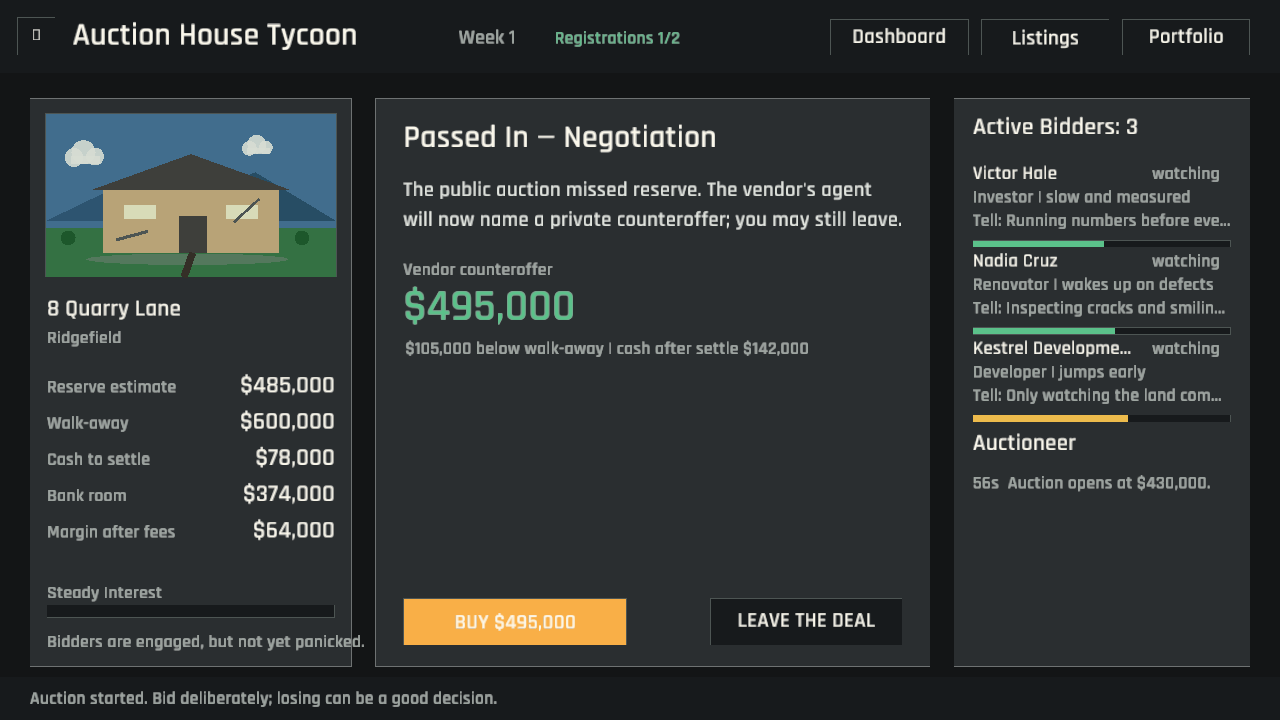
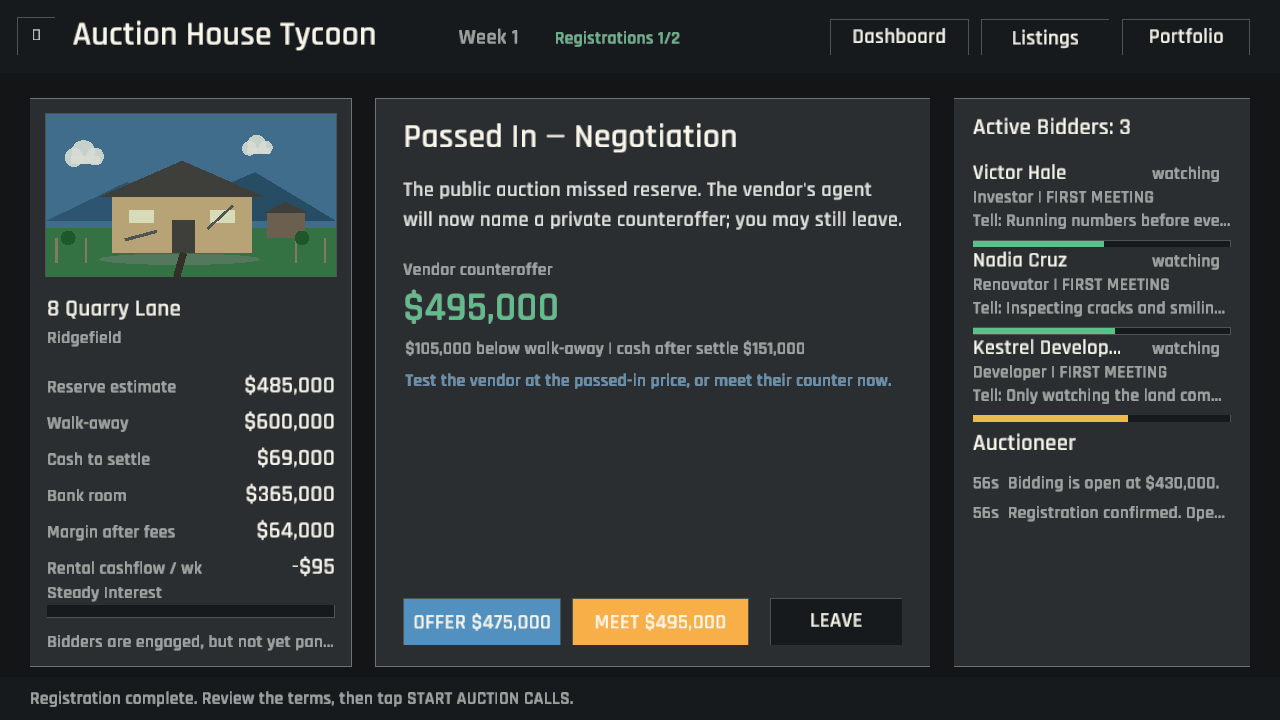
The vendor can now be tested after the room goes quiet (passed-in negotiation)
A pass-in previously collapsed into a binary take-the-counter-or-leave prompt. The buyer may now offer the public-room price once, with deterministic seller flexibility based on demand and defect risk; a rejection keeps the vendor counter available. The negotiation has finance-aware touch controls, save-compatible state, two outcome tests, and a dedicated verification capture. Auction debrief drawing moved into its own module to preserve the source-size standard.

diff --git a/src/screens/auction.rs b/src/screens/auction.rs
@@ -1,11 +1,15 @@
-use crate::app::{App, PurchaseDebrief};
+use crate::app::App;
 use crate::model::{Auction, AuctionStatus, AuctionTemperature, BidderActor};
+use crate::screens::auction_debrief::draw_purchase_debrief;
 use crate::screens::auction_lobby::{draw_auction_day_lobby, AuctionLobbyAction};
 use crate::screens::auction_widgets::{
     bid_verdict, draw_heat_bar, guidance_color, money_color, mood_color,
 };
 use crate::screens::Screen;
-use crate::sim::auction_events::{accept_post_auction_offer, post_auction_offer};
+use crate::sim::auction_events::{
+    accept_post_auction_offer, post_auction_offer, test_vendor_at_passed_in_price,
+    PostAuctionTestResult,
+};
 use crate::sim::auction_sim::{
     begin_auction_calls, hold_player_position, place_player_bid, place_player_jump_bid,
     quick_resolve_auction, stop_player_bidding, AUCTION_DURATION_SECONDS,
@@ -27,6 +31,7 @@ enum AuctionUiAction {
     Settle,
     ReturnToListings,
     AcceptPostAuction,
+    TestPostAuction,
 }
 
 impl App {
@@ -175,6 +180,25 @@ impl App {
                     }
                 }
             }
+            Some(AuctionUiAction::TestPostAuction) => {
+                if let Some(auction) = self.current_auction.as_mut() {
+                    match test_vendor_at_passed_in_price(auction) {
+                        Some(PostAuctionTestResult::Accepted(price)) => {
+                            self.status = format!(
+                                "Vendor accepted your {} offer. Review, then tap SETTLE PURCHASE.",
+                                format_money(price)
+                            );
+                        }
+                        Some(PostAuctionTestResult::Rejected(counter)) => {
+                            self.status = format!(
+                                "Vendor rejected the test offer and holds at {}.",
+                                format_money(counter)
+                            );
+                        }
+                        None => {}
+                    }
+                }
+            }
             None => {}
         }
     }
@@ -189,7 +213,7 @@ impl App {
         match status {
             AuctionStatus::SoldToPlayer => {
                 let debrief = self.purchase_debrief_for_auction(auction);
-                self.draw_purchase_debrief(&debrief, rect);
+                draw_purchase_debrief(&debrief, rect);
                 if button(
                     Rect::new(rect.x + 36.0, rect.y + rect.h - 64.0, rect.w - 72.0, 44.0),
                     "Settle Purchase",
@@ -257,6 +281,8 @@ impl App {
                 );
                 let offer = post_auction_offer(auction).unwrap_or(auction.reserve_price);
                 let offer_finance = finance_snapshot(&self.player, self.market(), offer);
+                let test_finance =
+                    finance_snapshot(&self.player, self.market(), auction.current_bid);
                 label(
                     "Vendor counteroffer",
                     rect.x + 26.0,
@@ -291,9 +317,37 @@ impl App {
                     16,
                     TEXT_DIM,
                 );
+                label_fit(
+                    if auction.post_auction_tested {
+                        "Your lower offer was rejected. The vendor counter still stands."
+                    } else {
+                        "Test the vendor at the passed-in price, or meet their counter now."
+                    },
+                    rect.x + 28.0,
+                    rect.y + 270.0,
+                    rect.w - 56.0,
+                    15,
+                    if auction.post_auction_tested {
+                        WARNING
+                    } else {
+                        crate::ui::BLUE
+                    },
+                );
                 if button(
-                    Rect::new(rect.x + 26.0, rect.y + rect.h - 64.0, 210.0, 44.0),
-                    &format!("BUY {}", format_money(offer)),
+                    Rect::new(rect.x + 26.0, rect.y + rect.h - 64.0, 148.0, 44.0),
+                    &if auction.post_auction_tested {
+                        "OFFER REJECTED".to_string()
+                    } else {
+                        format!("OFFER {}", format_money(auction.current_bid))
+                    },
+                    !auction.post_auction_tested && test_finance.can_buy,
+                    ButtonTone::Secondary,
+                ) {
+                    return Some(AuctionUiAction::TestPostAuction);
+                }
+                if button(
+                    Rect::new(rect.x + 184.0, rect.y + rect.h - 64.0, 166.0, 44.0),
+                    &format!("MEET {}", format_money(offer)),
                     offer_finance.can_buy,
                     if offer <= auction.player_walkaway_price {
                         ButtonTone::Primary
@@ -304,8 +358,8 @@ impl App {
                     return Some(AuctionUiAction::AcceptPostAuction);
                 }
                 if button(
-                    Rect::new(rect.x + rect.w - 206.0, rect.y + rect.h - 64.0, 180.0, 44.0),
-                    "LEAVE THE DEAL",
+                    Rect::new(rect.x + rect.w - 150.0, rect.y + rect.h - 64.0, 124.0, 44.0),
+                    "LEAVE",
                     true,
                     ButtonTone::Ghost,
                 ) {
@@ -314,55 +368,6 @@ impl App {
             }
         }
         None
-    }
-
-    fn draw_purchase_debrief(&self, debrief: &PurchaseDebrief, rect: Rect) {
-        label("You Won", rect.x + 26.0, rect.y + 44.0, 32, TEXT_BRIGHT);
-        label(&debrief.address, rect.x + 30.0, rect.y + 70.0, 17, TEXT_DIM);
-        label(
-            &format_money(debrief.purchase_price),
-            rect.x + 26.0,
-            rect.y + 118.0,
-            44,
-            ACCENT,
-        );
-        let values = [
-            ("Estimated resale", debrief.estimated_resale),
-            ("Cash to settle", debrief.cash_to_settle),
-            ("Cash after settle", debrief.cash_after_settle),
-            ("Fees", debrief.fees),
-            ("Repair allowance", debrief.renovation_allowance),
-            ("Projected profit", debrief.projected_profit),
-        ];
-        for (index, (title, value)) in values.iter().enumerate() {
-            draw_value(
-                title,
-                &format_money(*value),
-                rect.x + 28.0,
-                rect.y + 160.0 + index as f32 * 27.0,
-                rect.w - 56.0,
-            );
-        }
-        if debrief.walkaway_delta > 0 {
-            label(
-                &format!("Over walk-away by {}", format_money(debrief.walkaway_delta)),
-                rect.x + 28.0,
-                rect.y + 330.0,
-                15,
-                NEGATIVE,
-            );
-        }
-        let lesson = Rect::new(rect.x + 24.0, rect.y + 346.0, rect.w - 48.0, 86.0);
-        dark_panel(lesson);
-        label("Lesson", lesson.x + 14.0, lesson.y + 28.0, 20, TEXT_BRIGHT);
-        draw_wrapped_text(
-            &debrief.lesson,
-            lesson.x + 14.0,
-            lesson.y + 56.0,
-            lesson.w - 28.0,
-            16,
-            TEXT,
-        );
     }
 }
 

diff --git a/src/sim/auction_events.rs b/src/sim/auction_events.rs
@@ -71,3 +71,53 @@ pub fn accept_post_auction_offer(auction: &mut Auction) -> bool {
     );
     true
 }
+
+#[derive(Clone, Copy, Debug, PartialEq, Eq)]
+pub enum PostAuctionTestResult {
+    Accepted(i64),
+    Rejected(i64),
+}
+
+pub fn test_vendor_at_passed_in_price(auction: &mut Auction) -> Option<PostAuctionTestResult> {
+    if auction.status != Some(AuctionStatus::PassedIn) || auction.post_auction_tested {
+        return None;
+    }
+    auction.post_auction_tested = true;
+    let offer = auction.current_bid;
+    if offer >= vendor_acceptance_floor(auction) {
+        auction.last_bidder = Some(BidderActor::Player);
+        auction.status = Some(AuctionStatus::SoldToPlayer);
+        auction.sold_post_auction = true;
+        push_log(
+            auction,
+            format!(
+                "Vendor accepts your passed-in offer of {}.",
+                crate::ui::format_money(offer)
+            ),
+        );
+        Some(PostAuctionTestResult::Accepted(offer))
+    } else {
+        let counter = post_auction_offer(auction).unwrap_or(auction.reserve_price);
+        push_log(
+            auction,
+            format!(
+                "Vendor rejects {} and holds at {}.",
+                crate::ui::format_money(offer),
+                crate::ui::format_money(counter)
+            ),
+        );
+        Some(PostAuctionTestResult::Rejected(counter))
+    }
+}
+
+fn vendor_acceptance_floor(auction: &Auction) -> i64 {
+    let concession =
+        if auction.property.hidden_defect_risk >= 0.55 || auction.property.buyer_demand <= 50 {
+            30_000
+        } else if auction.property.buyer_demand <= 70 {
+            20_000
+        } else {
+            10_000
+        };
+    auction.reserve_price - concession
+}

diff --git a/src/screens/auction_debrief.rs b/src/screens/auction_debrief.rs
@@ -1,0 +1,52 @@
+use crate::app::PurchaseDebrief;
+use crate::ui::*;
+use macroquad::prelude::*;
+
+pub(super) fn draw_purchase_debrief(debrief: &PurchaseDebrief, rect: Rect) {
+    label("You Won", rect.x + 26.0, rect.y + 44.0, 32, TEXT_BRIGHT);
+    label(&debrief.address, rect.x + 30.0, rect.y + 70.0, 17, TEXT_DIM);
+    label(
+        &format_money(debrief.purchase_price),
+        rect.x + 26.0,
+        rect.y + 118.0,
+        44,
+        ACCENT,
+    );
+    let values = [
+        ("Estimated resale", debrief.estimated_resale),
+        ("Cash to settle", debrief.cash_to_settle),
+        ("Cash after settle", debrief.cash_after_settle),
+        ("Fees", debrief.fees),
+        ("Repair allowance", debrief.renovation_allowance),
+        ("Projected profit", debrief.projected_profit),
+    ];
+    for (index, (title, value)) in values.iter().enumerate() {
+        draw_value(
+            title,
+            &format_money(*value),
+            rect.x + 28.0,
+            rect.y + 160.0 + index as f32 * 27.0,
+            rect.w - 56.0,
+        );
+    }
+    if debrief.walkaway_delta > 0 {
+        label(
+            &format!("Over walk-away by {}", format_money(debrief.walkaway_delta)),
+            rect.x + 28.0,
+            rect.y + 330.0,
+            15,
+            NEGATIVE,
+        );
+    }
+    let lesson = Rect::new(rect.x + 24.0, rect.y + 346.0, rect.w - 48.0, 86.0);
+    dark_panel(lesson);
+    label("Lesson", lesson.x + 14.0, lesson.y + 28.0, 20, TEXT_BRIGHT);
+    draw_wrapped_text(
+        &debrief.lesson,
+        lesson.x + 14.0,
+        lesson.y + 56.0,
+        lesson.w - 28.0,
+        16,
+        TEXT,
+    );
+}

diff --git a/src/sim/auction_sim/tests.rs b/src/sim/auction_sim/tests.rs
@@ -349,3 +349,37 @@ fn passed_in_vendor_counter_can_be_accepted_below_reserve() {
     assert_eq!(auction.current_bid, offer);
     assert_eq!(auction.status, Some(AuctionStatus::SoldToPlayer));
 }
+
+#[test]
+fn a_passed_in_buyer_can_test_a_flexible_vendor_once() {
+    let mut auction = auction();
+    auction.property.buyer_demand = 45;
+    auction.current_bid = auction.reserve_price - 20_000;
+    auction.status = Some(AuctionStatus::PassedIn);
+    let tested_price = auction.current_bid;
+
+    assert_eq!(
+        test_vendor_at_passed_in_price(&mut auction),
+        Some(PostAuctionTestResult::Accepted(tested_price))
+    );
+    assert_eq!(auction.status, Some(AuctionStatus::SoldToPlayer));
+    assert!(auction.sold_post_auction);
+}
+
+#[test]
+fn a_rejected_passed_in_test_leaves_the_vendor_counter_available() {
+    let mut auction = auction();
+    auction.property.buyer_demand = 80;
+    auction.current_bid = auction.reserve_price - 30_000;
+    auction.status = Some(AuctionStatus::PassedIn);
+
+    let counter = post_auction_offer(&auction).unwrap();
+    assert_eq!(
+        test_vendor_at_passed_in_price(&mut auction),
+        Some(PostAuctionTestResult::Rejected(counter))
+    );
+    assert_eq!(auction.status, Some(AuctionStatus::PassedIn));
+    assert!(auction.post_auction_tested);
+    assert_eq!(test_vendor_at_passed_in_price(&mut auction), None);
+    assert!(accept_post_auction_offer(&mut auction));
+}

diff --git a/src/sim/auction_sim.rs b/src/sim/auction_sim.rs
@@ -10,7 +10,10 @@ use crate::sim::auction_bidders::{
     temperature_bid_modifier, BID_INCREMENT,
 };
 #[cfg(test)]
-use crate::sim::auction_events::{accept_post_auction_offer, post_auction_offer};
+use crate::sim::auction_events::{
+    accept_post_auction_offer, post_auction_offer, test_vendor_at_passed_in_price,
+    PostAuctionTestResult,
+};
 use crate::sim::auction_events::{announce_on_market, place_vendor_bid, should_place_vendor_bid};
 use crate::sim::valuation::round_down_to_increment;
 use macroquad_toolkit::rng::SeededRng;
@@ -90,6 +93,7 @@ pub fn create_auction(
         vendor_bid_used: false,
         last_room_read: None,
         sold_post_auction: false,
+        post_auction_tested: false,
         has_started: false,
         rng_state: auction_seed(property, market),
     }

diff --git a/src/model/auction.rs b/src/model/auction.rs
@@ -90,6 +90,8 @@ pub struct Auction {
     pub last_room_read: Option<String>,
     #[serde(default)]
     pub sold_post_auction: bool,
+    #[serde(default)]
+    pub post_auction_tested: bool,
     #[serde(default = "auction_started_default")]
     pub has_started: bool,
     #[serde(default = "auction_rng_default")]

diff --git a/src/screens/mod.rs b/src/screens/mod.rs
@@ -1,4 +1,5 @@
 pub mod auction;
+mod auction_debrief;
 mod auction_lobby;
 pub mod auction_widgets;
 pub mod briefing;

diff --git a/GAME_DESIGN.md b/GAME_DESIGN.md
@@ -35,6 +35,7 @@ The three requirements prevent a single degenerate strategy. Cheap but poor asse
 - The room opens in $10,000 rises. Crossing reserve triggers the on-market call and the auctioneer tightens every later raise to $5,000, making late discipline more granular.
 - One declared vendor bid may move the auction below reserve, but can never buy the property or put it on the market.
 - A pass-in moves to a private vendor counteroffer below reserve; accepting still requires finance and can still violate the player's walk-away.
+- Before meeting that counter, the player may test the vendor once at the passed-in price. Seller flexibility follows demand and disclosed risk, and a rejection leaves the counteroffer available.
 - A hammer win requires a 10% contract deposit plus separately visible acquisition costs; both are included in settlement cash and the deal remains unconditional.
 - ASSERT is theatre with asymmetric consequences: it discourages rational buyers and can provoke emotional ones.
 - First-home buyers stretch near the final call, renovators stretch for damaged upside in emotional rooms, and ego bidders stretch when counter-bidding becomes personal; each exposes a distinct live tell while rational bidders keep their ceiling.

diff --git a/README.md b/README.md
@@ -19,6 +19,7 @@ Winning an auction is not automatically good. The real challenge is knowing what
 - Hear a legal vendor bid below the hidden reserve and the auctioneer's decisive on-market call.
 - Open in $10,000 rises, then bid in tighter $5,000 steps after the on-market call.
 - Negotiate a visible vendor counteroffer after a pass-in, or leave the private deal untouched.
+- Test the vendor once at the public-room price before deciding whether to meet that counteroffer.
 - Build a season record that credits disciplined exits alongside purchases and profitable sales.
 - Close each season with the registrations deliberately passed up, final rent, realised sale profit, and auction record visible together.
 - Pay down individual property loans when freeing bank headroom matters more than keeping cash liquid.
